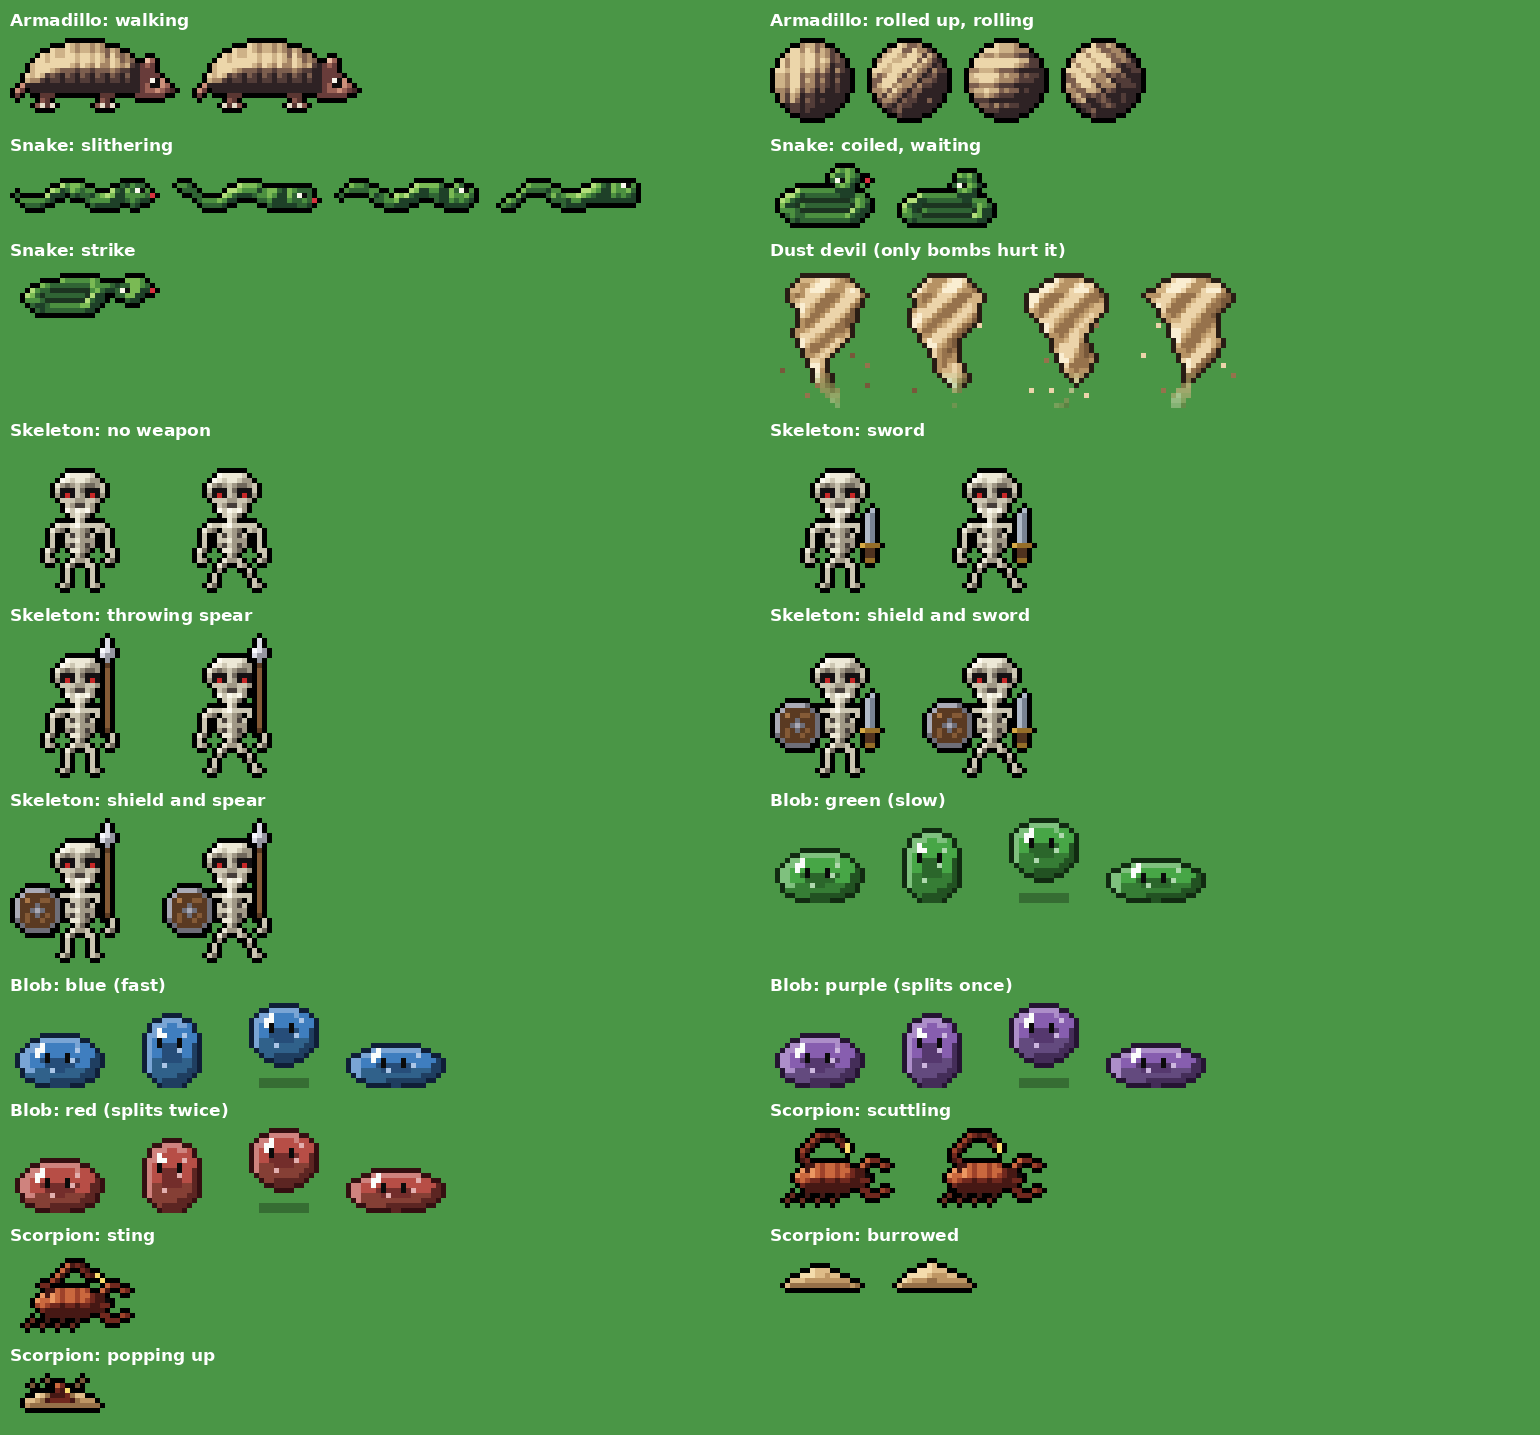
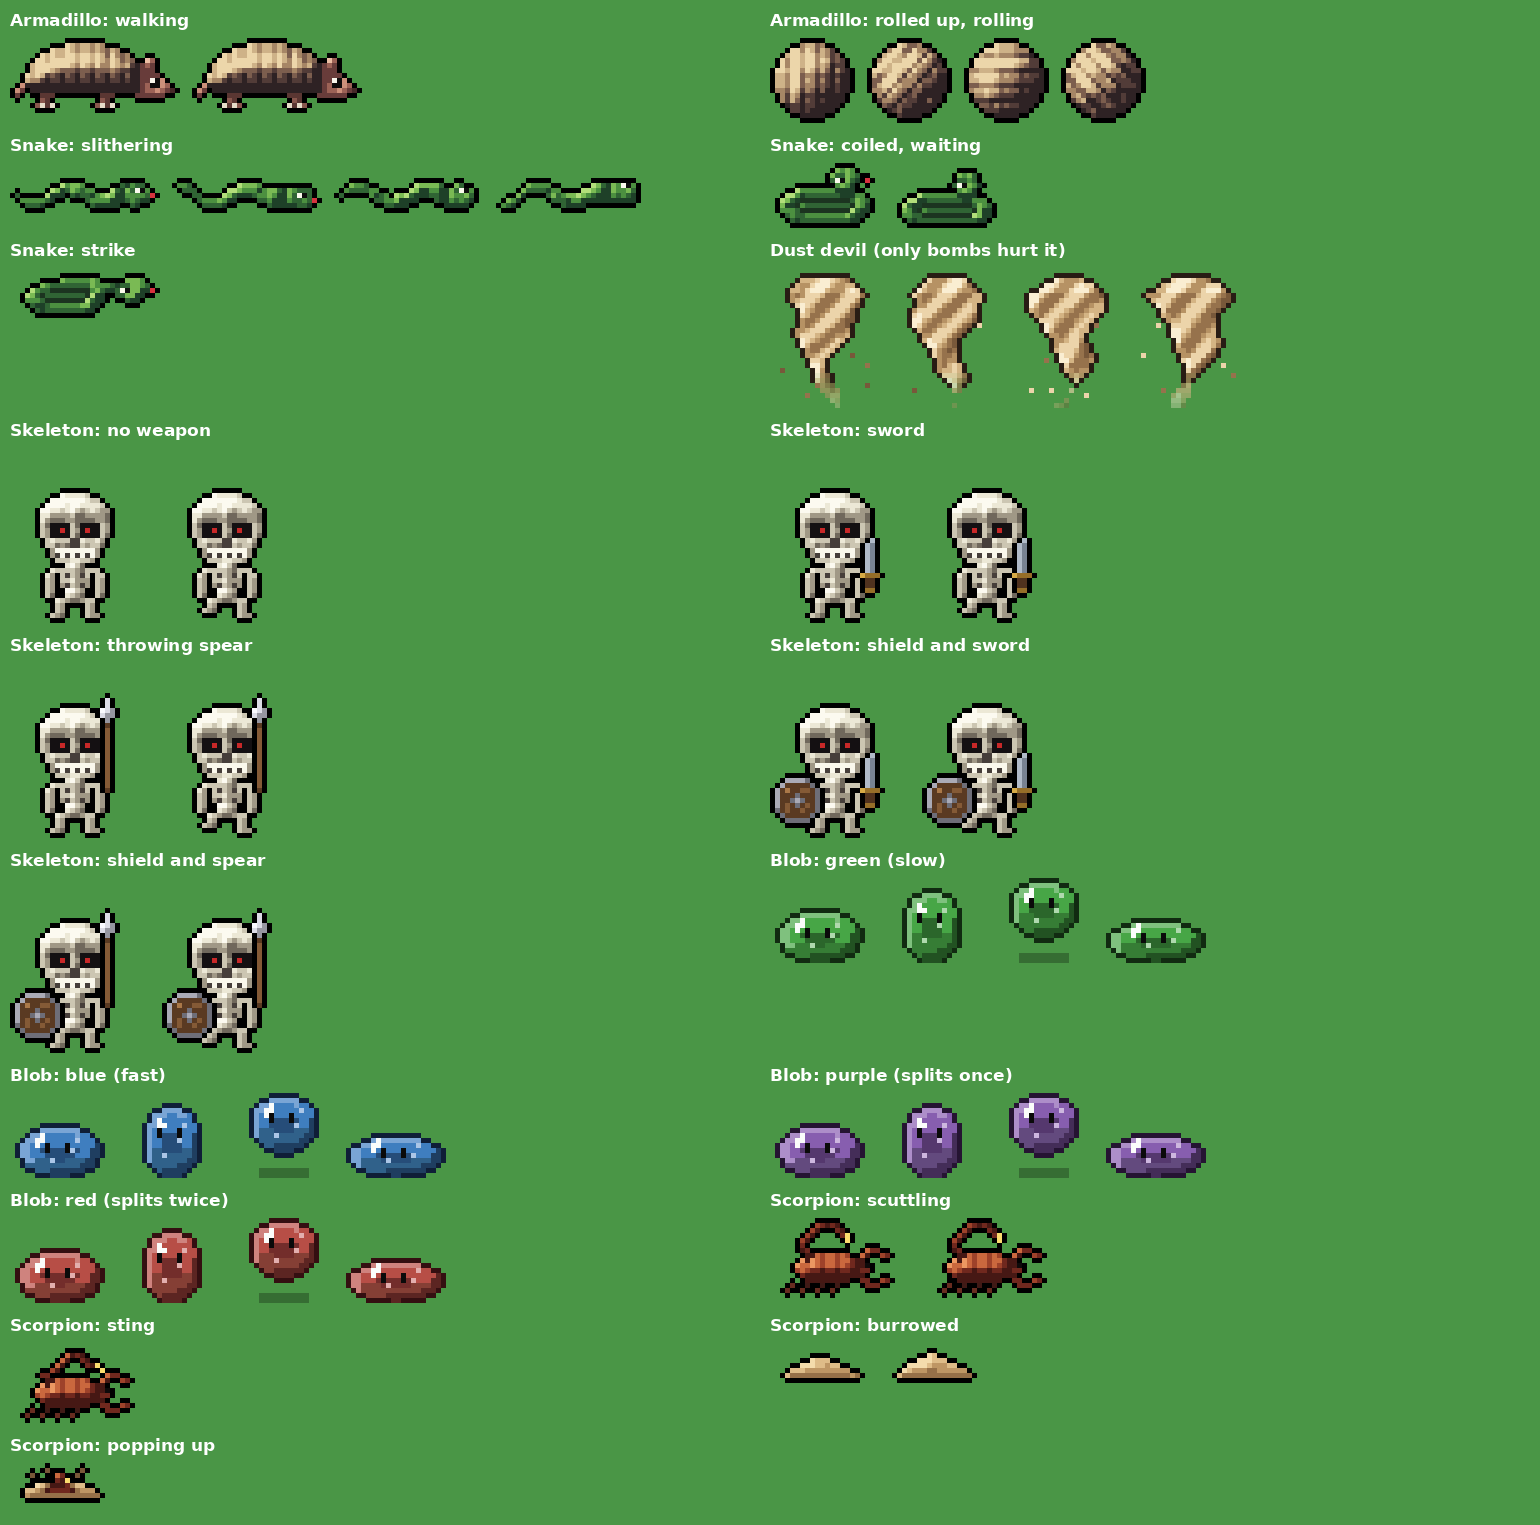
Skeleton art on Jordan's proportions: big skull, short body, straight legs close together
Claude-Session: https://claude.ai/code/session_01GAh6kgo7CvSgLtUYs6XtsM

diff --git a/_tools/enemy_art/skel.py b/_tools/enemy_art/skel.py
@@ -2,35 +2,39 @@ from px import shade, flip
 from PIL import Image
 BONE=[(112,104,92),(160,152,134),(204,198,178),(236,232,214),(252,250,240)]
 mats={'B':BONE,'K':[(20,16,18)],'D':[(70,62,58)],'T':[(250,248,236)],'r':[(200,40,40)]}
+# Built on Jordan's proportions: a big head (about 14 wide, 14 tall), a short body with the arms
+# close at its sides, and short legs set close together.
 body=[
-"......BBBBBB......",
-".....BBBBBBBB.....",
-"....BBBBBBBBBB....",
-"....BKKKBBKKKB....",
-"....BKrKBBKrKB....",
-".....BBBBBBBB.....",
-"......BBDDBB......",
-"......TBTBTB......",
-".......BBBB.......",
-"........BB........",
-"....BBBBBBBBBB....",
-"...BBB.BBBB.BBB...",
-"...B..BDBBDB..B...",
-"...B..BBBBBB..B...",
-"...B..BDBBDB..B...",
-"..BB...BBBB...BB..",
-"..B.....BB.....B..",
-"..BB...BBBB...BB..",
-"......BB..BB......",
-"......B....B......",
-"......B....B......",
-"......B....B......",
-".....BB....BB.....",
+".....BBBBBB.....",
+"...BBBBBBBBBB...",
+"..BBBBBBBBBBBB..",
+".BBBBBBBBBBBBBB.",
+".BBBBBBBBBBBBBB.",
+".BBBBBBBBBBBBBB.",
+".BBKKKKBBKKKKBB.",
+".BBKKrKBBKrKKBB.",
+".BBKKKKBBKKKKBB.",
+"..BBBBBDDBBBBB..",
+"..BBBBBDDBBBBB..",
+"...BTTTTTTTTB...",
+"...BDTDTDTDTB...",
+"....BBBBBBBB....",
+"......BBBB......",
+"...BBBBBBBBBB...",
+"..BB.BDBBDB.BB..",
+"..BB.BBBBBB.BB..",
+"..BB.BDBBDB.BB..",
+"..BB..BBBB..BB..",
+"..BB..BBBB..BB..",
+"....BBBBBBBB....",
+"....BB....BB....",
+"....BB....BB....",
+"...BBB....BBB...",
 ]
 def legs(rows, step):
     rows=list(rows)
-    if step:
-        rows[19]="......B.....B....."; rows[20]=".....B......B....."; rows[21]=".....B.......B...."; rows[22]="....BB.......BB..."
+    if step:   # one foot lifted, like Jordan's walk
+        rows[22]="....BB....BB...."; rows[23]="...BBB....BB...."; rows[24]="..........BBB..."
     return rows
 SW={'S':[(120,130,146),(176,186,200),(226,234,242)],'G':[(150,110,40),(214,170,70)],'h':[(80,50,30),(120,80,50)],
     'W':[(90,58,34),(132,90,54),(170,120,72)],'M':[(110,110,120),(170,170,182),(214,214,224)],'P':[(150,150,160),(220,220,230),(250,250,255)]}
@@ -39,10 +43,10 @@ spear=[".P.",".P.","PPP","PPP",".P.",".W.",".W.",".W.",".W.",".W.",".W.",".W.","
 shield=["..MMMMM..",".MWWWWWM.","MWWWWWWWM","MWWWMWWWM","MWWMMMWWM","MWWWMWWWM","MWWWWWWWM",".MWWWWWM.","..MMMMM.."]
 def make(step, sword_=False, spear_=False, shield_=False):
     im=shade(legs(body,step),mats,bias={'B':0.15})
-    canvas=Image.new('RGBA',(im.width+8,im.height+4),(0,0,0,0)); canvas.alpha_composite(im,(4,4))
-    if spear_: canvas.alpha_composite(shade(spear,SW),(17,0))
-    if sword_: canvas.alpha_composite(shade(sword,SW),(17,11))
-    if shield_: canvas.alpha_composite(shade(shield,SW),(0,13))
+    canvas=Image.new('RGBA',(im.width+10,im.height+8),(0,0,0,0)); canvas.alpha_composite(im,(4,8))
+    if spear_: canvas.alpha_composite(shade(spear,SW),(17,6))
+    if sword_: canvas.alpha_composite(shade(sword,SW),(17,17))
+    if shield_: canvas.alpha_composite(shade(shield,SW),(0,22))
     return canvas
 variants={'no weapon':{},'sword':{'sword_':True},'throwing spear':{'spear_':True},
           'shield and sword':{'shield_':True,'sword_':True},'shield and spear':{'shield_':True,'spear_':True}}
